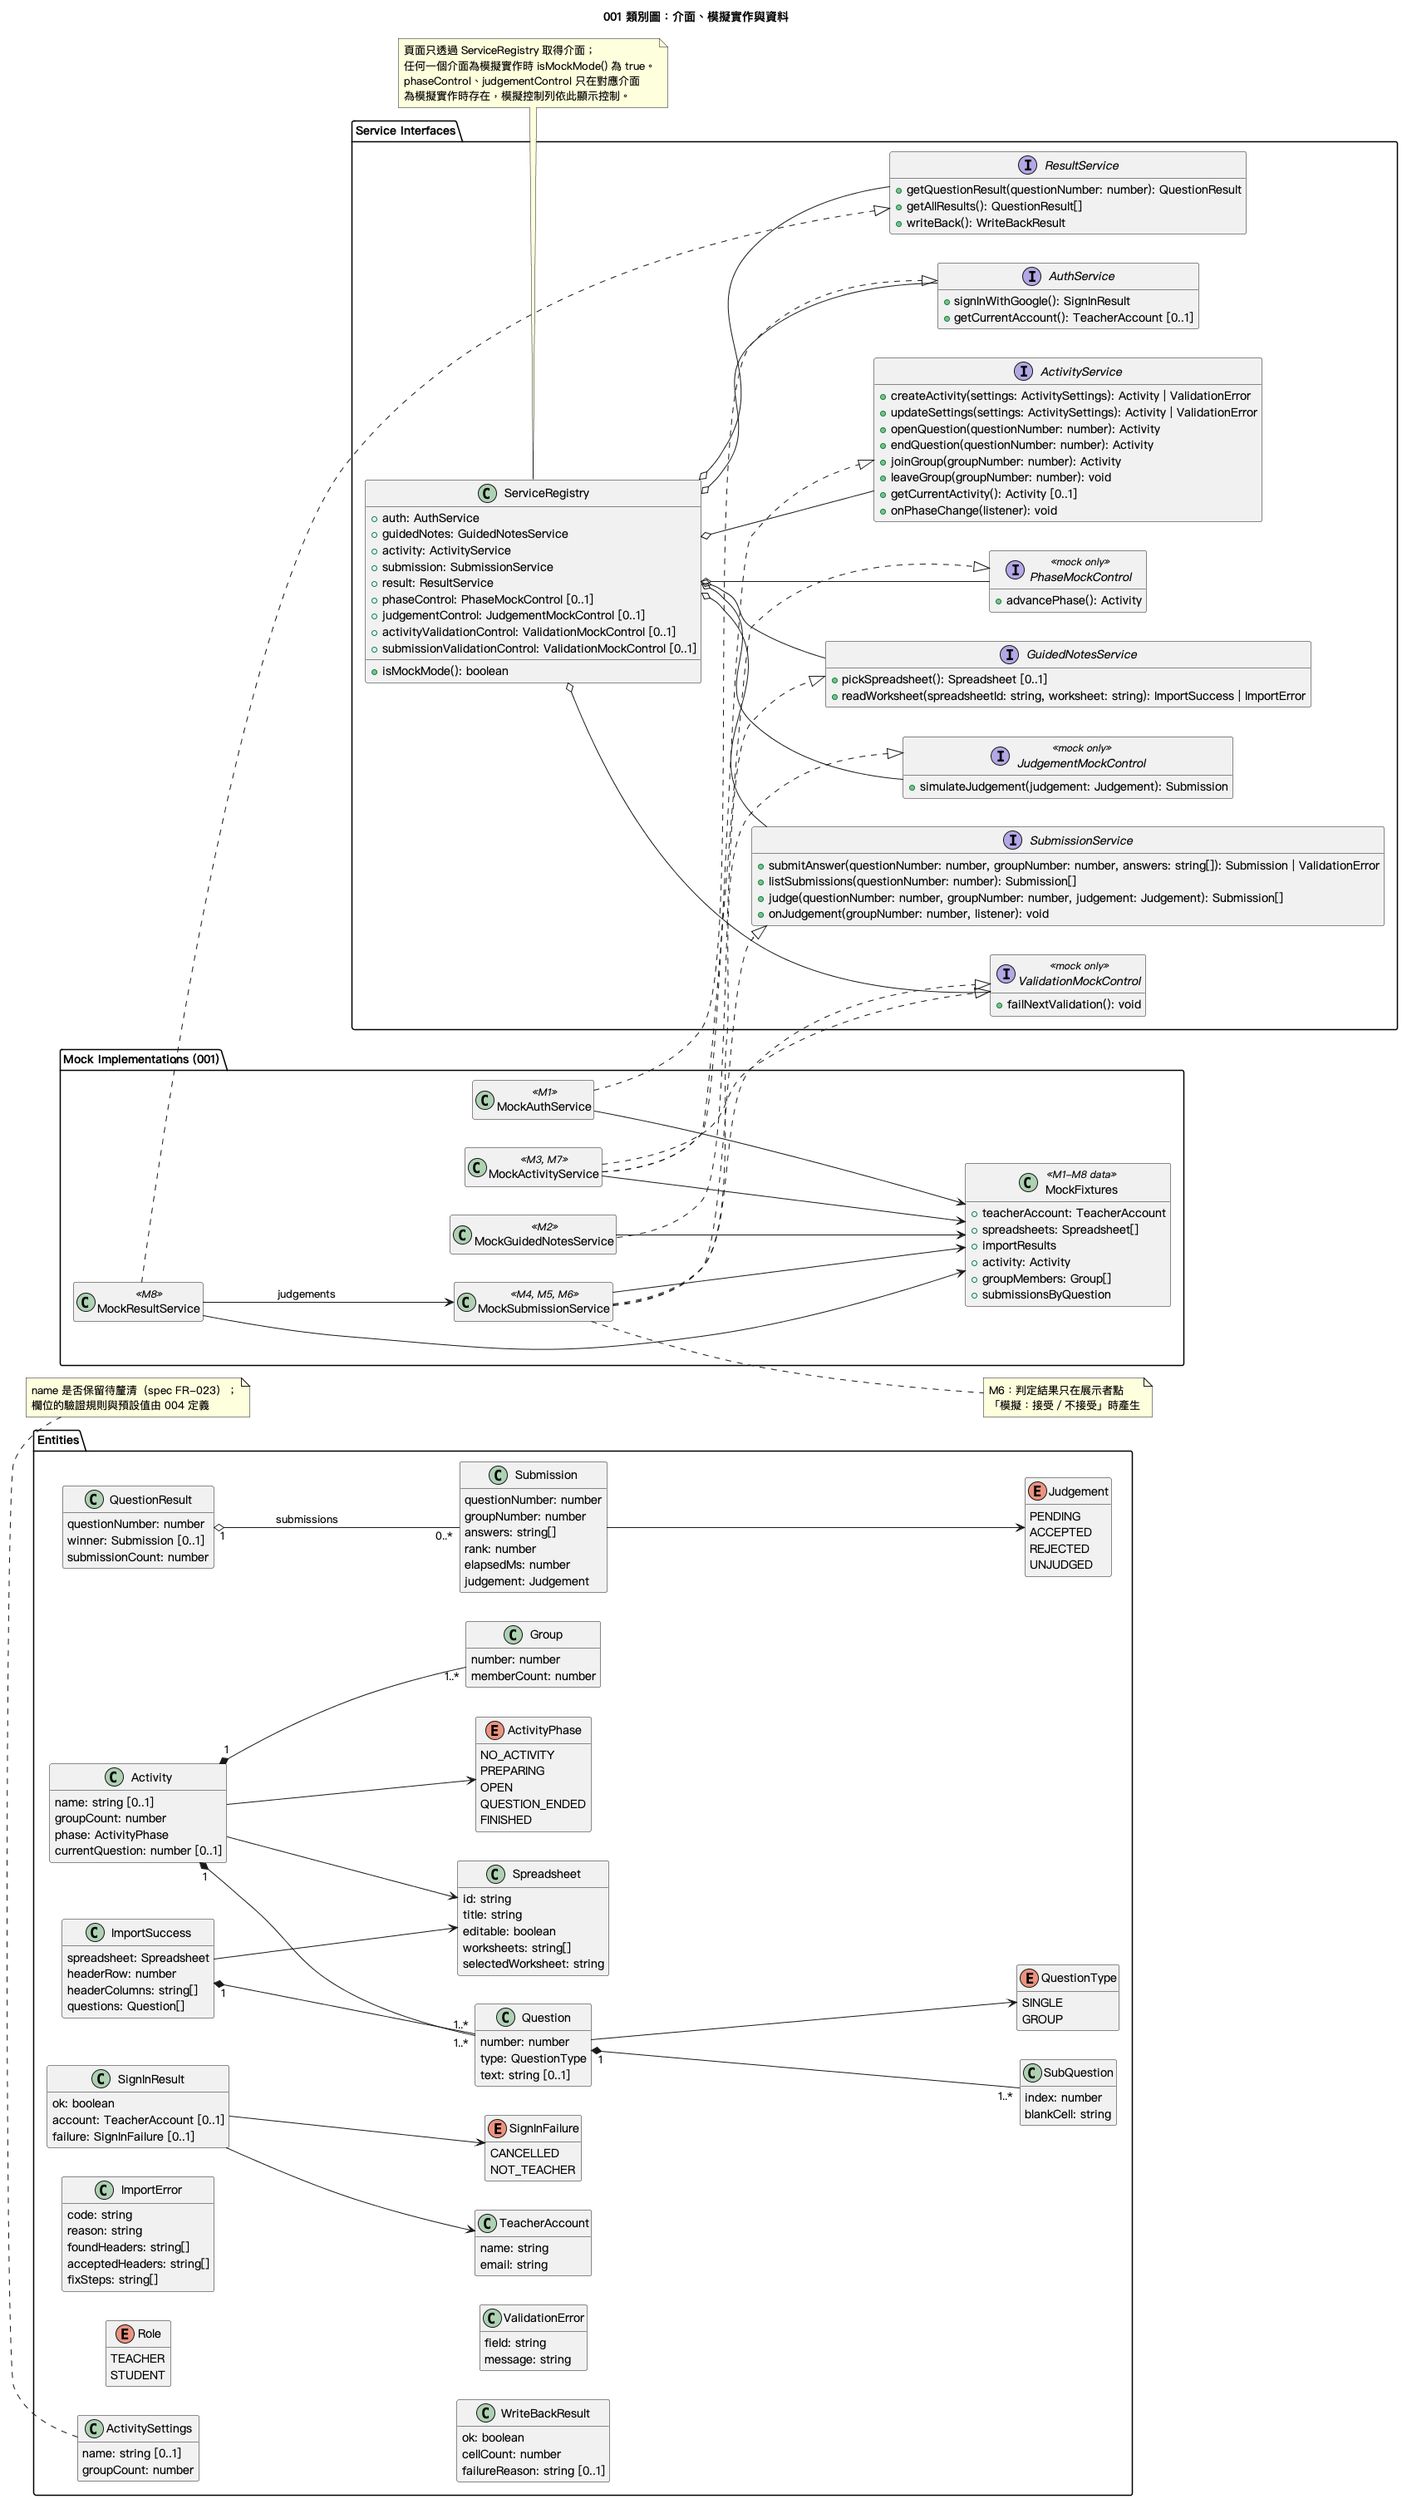
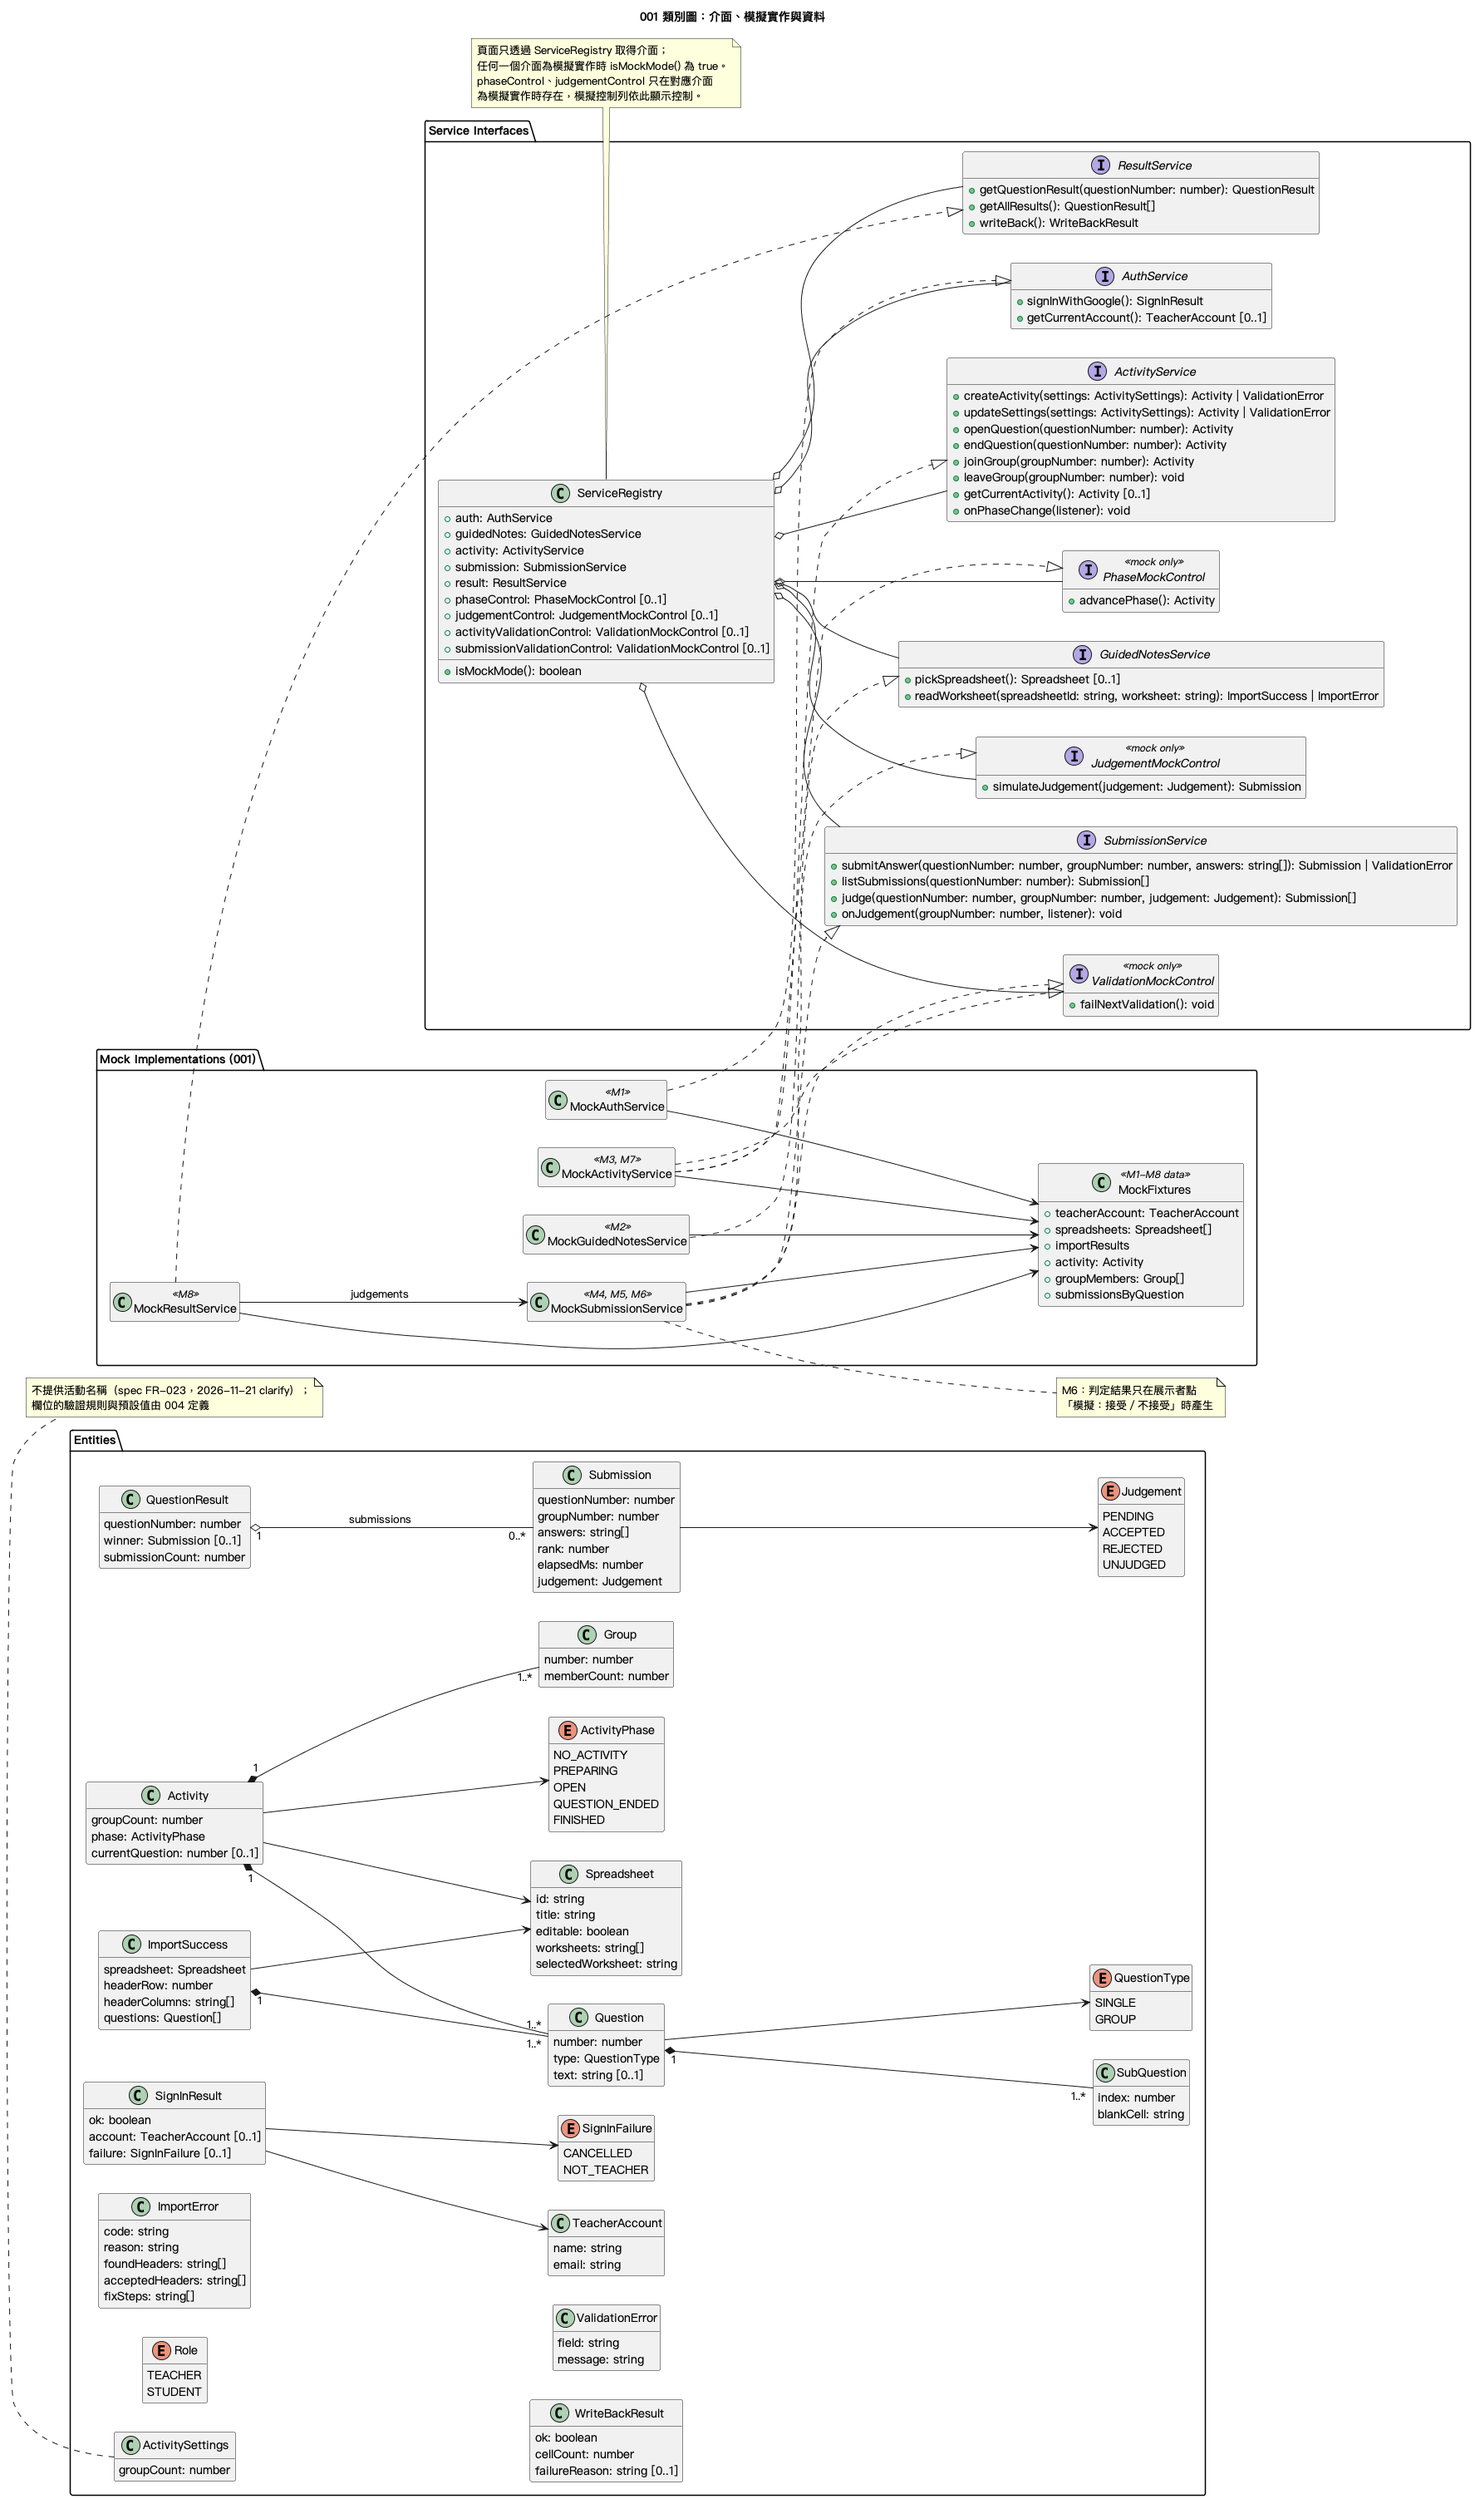
spec(001): clarify activity name and initial mock phase
- Drop activity name: not in docs/assignment.md (principle XI);
  D6, D7 discarded
- Start mock phase at "no activity": otherwise that state of Main
  and S-Join is unreachable and SC-002 fails

Refs: FR-010, FR-023, M3, M7

diff --git a/specs/001-ui-prototype/spec.md b/specs/001-ui-prototype/spec.md
@@ -42,6 +42,7 @@
 | 「連結 Google 帳號」、「解除連結」 | T-Connect、T-Import | 改為登入頁的「用 Google 登入」（002） |
 | 學生加入網址與「複製網址」 | T-Setup、T-Lobby | 學生改由首頁選擇「我是學生」進入 |
 | 分頁連線、離線狀態（「連線分頁 13 個」「第 6 組離線」） | T-Live、T-EndConfirm、T-Lobby | 不在任何子功能的範圍；只保留各組已加入人數 |
+| 活動名稱欄位與各頁顯示的活動名稱 | T-Setup、Main 及其他顯示活動名稱的頁面 | 不在 `docs/assignment.md` 的需求內（2026-11-21 clarify） |
 
 下列頁面或狀態是設計稿沒有、本子功能補上的：
 
@@ -69,8 +70,8 @@
 | D3 | 挑選學習單時關閉檔案選擇器，原本的辨識結果不變 | Edge Cases | 003 |
 | D4 | 組數範圍為 2 到 20 組；組數在 2 或 20 時「−」或「+」不可用 | FR-023；US2 AC-5；Edge Cases | 004 |
 | D5 | 組數預設為 6 組 | FR-023；US2 AC-4 | 004 |
-| D6 | 活動名稱預填學習單標題 | FR-023；US2 AC-4 | 004（先依 FR-023 決定是否保留活動名稱） |
-| D7 | 活動名稱必填；只有空白字元視為空白；空白時顯示「請輸入活動名稱」 | FR-023；US2 AC-6；Edge Cases | 004（先依 FR-023 決定是否保留活動名稱） |
+| D6 | 活動名稱預填學習單標題 | FR-023；US2 AC-4 | 已捨棄（2026-11-21 clarify：不保留活動名稱） |
+| D7 | 活動名稱必填；只有空白字元視為空白；空白時顯示「請輸入活動名稱」 | FR-023；US2 AC-6；Edge Cases | 已捨棄（2026-11-21 clarify：不保留活動名稱） |
 | D8 | 所有輸入在送出前都要驗證，驗證失敗時在欄位旁說明哪一項有誤及原因 | FR-008 | 各子功能依原則 VII 定義自己的驗證規則；001 只負責顯示（FR-008） |
 | D9 | 結束最後一題時，活動一併結束 | FR-033 | 004 |
 | D10 | 只能判定最早一筆待判定的答案；後面的答案在前面都判定前不可判定 | FR-032；US3 AC-3、AC-5；頁面與按鈕；Assumptions | 005 |
@@ -92,6 +93,8 @@
 - Q: 001 不實作階段同步時，展示者要怎麼讓學生頁面進入作答、本題結果與全部結果頁？ → A: 在「模擬模式」標示旁提供只在模擬模式出現的「模擬：推進到下一個階段」控制（FR-006、FR-061、M7）。
 - Q: 學生送出後，模擬實作依什麼規則決定「接受」或「不接受」？ → A: 等待判定頁在模擬模式下提供「模擬：接受」「模擬：不接受」兩個控制（M6、FR-061）。
 - Q: 被拒絕的組別能否修改後重送？ → A: 最終由 005 決定；001 先實作可重送（FR-056）。
+- Q: 活動設定頁是否保留「活動名稱」欄位？ → A: 不保留；T-Setup、首頁、學生頁面都不提供活動名稱，D6、D7 捨棄（FR-010、FR-023）。
+- Q: 模擬模式剛開啟時，首頁與選組頁看到的活動階段從哪裡開始？ → A: 從「沒有活動」開始；推進一次後出現固定模擬活動（4 題、6 組，準備中）；重新整理頁面後回到「沒有活動」（M3、M7）。
 
 ## User Scenarios & Testing *(mandatory)*
 
@@ -212,7 +215,7 @@
 - 登入失敗（取消或非老師帳號）：停留在登入頁並顯示登入介面回傳的訊息，不進入老師頁面。
 - 挑選學習單時關閉檔案選擇器：停留在原頁面，頁面內容不變。
 - 介面回傳驗證錯誤（任何頁面）：停留在原頁面，在出錯的欄位旁顯示介面回傳的訊息。
-- 在已結束階段點「模擬：推進到下一個階段」：模擬的階段不再改變。
+- 在已結束階段點「模擬：推進到下一個階段」：模擬的階段不再改變；要重新展示時重新整理頁面，階段回到「沒有活動」。
 - 一題結束時沒有任何組別送出：控制台・本題已結束與本題結果頁顯示「沒有組別送出」狀態。
 - 一題結束時有送出但沒有任何組別被接受：控制台・本題已結束與本題結果頁顯示「沒有組別搶答成功」狀態。
 - 學生在作答頁或等待判定頁時本題結束：切換到本題結果（階段推動，屬於 004）。
@@ -238,7 +241,7 @@
 
 #### 首頁與登入（R1）
 
-- **FR-010**: 首頁 MUST 提供「我是老師」與「我是學生」兩個選項，並顯示目前活動的階段、題數與組數（沒有活動時顯示「目前沒有活動」）；活動名稱是否顯示依 FR-023 的決定。
+- **FR-010**: 首頁 MUST 提供「我是老師」與「我是學生」兩個選項，並顯示目前活動的階段、題數與組數（沒有活動時顯示「目前沒有活動」）；不顯示活動名稱。
 - **FR-011**: 選「我是學生」 MUST 直接進入選組頁，不要求登入。
 - **FR-012**: 選「我是老師」 MUST 進入登入頁；登入頁 MUST 只提供「用 Google 登入」一個登入選項。
 - **FR-013**: 登入頁 MUST 有登入失敗訊息區，顯示登入介面回傳的失敗訊息。失敗的種類與訊息文字由 002 定義；001 的模擬實作回傳「已取消登入」與「此帳號不是老師帳號」兩種。
@@ -248,9 +251,8 @@
 - **FR-020**: 挑選學習單頁 MUST 顯示已登入的帳號，並提供「從 Google 雲端硬碟挑選」與「取消」。
 - **FR-021**: 確認辨識結果頁 MUST 顯示：學習單標題、是否可編輯、工作表切換、表頭所在的列與欄、學習單預覽（標示填空格）、題數、題組數、填空格數，以及以題號列出的每一題的類型（單題／題組・n 小題）與填空格位置。
 - **FR-022**: 找不到表頭頁 MUST 顯示學習單介面回傳的：錯誤原因、學習單中目前的表頭文字、系統認得的表頭寫法、修正方式。這些內容與匯入失敗時的處理方式由 003 定義。
-- **FR-023**: 活動設定頁 MUST 提供下列欄位與摘要：
+- **FR-023**: 活動設定頁 MUST 提供下列欄位與摘要，且 MUST NOT 提供活動名稱欄位（活動名稱不在 `docs/assignment.md` 的需求內）：
   - 組數欄位：以「−」「+」調整，並列出各組。
-  - 活動名稱欄位：[NEEDS CLARIFICATION: 是否需要活動名稱？活動名稱不在 `docs/assignment.md` 的需求內，設計稿 T-Setup 有此欄位。若不保留，一併移除首頁（FR-010）與學生頁面上顯示活動名稱的位置]
   - 這一輪的摘要：題數、題組題號、組數、成功規則的說明、學生加入方式的說明。
   欄位的驗證規則與預設值由 004 定義；說明文字依 `docs/feature-split.md` 3.2 與 004、005 的規則撰寫。001 的模擬實作接受任何輸入。
 - **FR-024**: 活動設定頁 MUST 有兩種模式：建立模式（按鈕「上一步」「建立活動」）與修改模式（按鈕「取消」「儲存設定」）。
@@ -290,11 +292,11 @@
 | --- | --- | --- |
 | M1 | 登入 | 點「用 Google 登入」後顯示模擬帳號選擇，選項為「模擬老師帳號」（成功）、「模擬非老師帳號」（失敗：此帳號不是老師帳號）、「取消」（失敗：已取消登入）。 |
 | M2 | 學習單 | 模擬檔案選擇器列出三份學習單：「題組＋單題範本」（辨識成功；可編輯，4 題，其中 2 題為題組，6 個填空格）、「單題範本」（辨識成功；僅檢視，6 題單題，6 個填空格）、「表頭錯誤範例」（找不到表頭）。對「表頭錯誤範例」按「重新讀取」時視為老師已修正表頭，回傳「題組＋單題範本」的辨識結果。關閉選擇器視為取消。 |
-| M3 | 活動 | 建立與修改設定成功；只有展示者點「模擬：驗證失敗」後的下一次建立或儲存，回傳組數欄位的驗證錯誤「模擬：驗證失敗」。控制台・準備中顯示固定的各組已加入人數，且至少一組為 0 人。首頁與選組頁看到的活動為一個固定的模擬活動（4 題、6 組）。 |
+| M3 | 活動 | 建立與修改設定成功；只有展示者點「模擬：驗證失敗」後的下一次建立或儲存，回傳組數欄位的驗證錯誤「模擬：驗證失敗」。控制台・準備中顯示固定的各組已加入人數，且至少一組為 0 人。首頁與選組頁看到的活動為一個固定的模擬活動（4 題、6 組），在 M7 推進到「準備中」之後才出現；在此之前顯示「沒有活動」。 |
 | M4 | 老師端的送出 | 每題開放時提供固定的模擬送出列表：除最後一題外，每題有 2 組以上的送出；最後一題沒有任何送出。每一筆待判定的答案都可判定；老師的判定結果記錄在模擬實作中，並反映在本題結果、題目進度與結果頁。 |
 | M5 | 學生端的送出 | 「整組送出」一律可用，送出成功；只有展示者點「模擬：驗證失敗」後的下一次送出，回傳第一個答案欄的驗證錯誤「模擬：驗證失敗」；被拒絕後允許重送，答案欄保留上次送出的內容。 |
 | M6 | 學生端的判定 | 送出後維持「等待判定」，直到展示者在模擬控制列點「模擬：接受」或「模擬：不接受」（FR-061）。 |
-| M7 | 學生端的活動階段 | 學生頁面的活動階段只在展示者點模擬控制列的「模擬：推進到下一個階段」時改變，依序為：準備中 → 搶答中（第 1 題）→ 本題已結束（第 1 題）→ 搶答中（第 2 題）→ … → 本題已結束（最後一題）→ 已結束。選組頁的「沒有活動」狀態以「模擬：推進到下一個階段」進入「準備中」。 |
+| M7 | 學生端的活動階段 | 首頁與學生頁面看到的活動階段只在展示者點模擬控制列的「模擬：推進到下一個階段」時改變。開啟或重新整理頁面時一律從「沒有活動」開始，依序為：沒有活動 → 準備中 → 搶答中（第 1 題）→ 本題已結束（第 1 題）→ 搶答中（第 2 題）→ … → 本題已結束（最後一題）→ 已結束。「已結束」之後再推進，階段不再改變。 |
 | M8 | 寫回 | 學習單為「題組＋單題範本」時寫回成功；為「單題範本」（僅檢視）時失敗，原因為沒有編輯權限。 |
 
 - **FR-061**: 模擬模式下，「模擬模式」標示旁 MUST 顯示模擬控制列，只提供目前頁面可用的控制：
@@ -406,7 +408,7 @@
 - **題目**：題號、類型（單題或題組）、題目敘述（可沒有）、所屬小題。題組算一題。
 - **小題**：所屬題目、小題編號、填空格位置。單題視為只有一個小題。
 - **辨識錯誤**：錯誤代碼、原因、目前的表頭文字、系統認得的表頭寫法、修正方式。
-- **活動**：組數、使用的學習單與題目、目前階段、目前題號；名稱依 FR-023 的決定。
+- **活動**：組數、使用的學習單與題目、目前階段、目前題號。活動沒有名稱。
 - **活動階段**：沒有活動、準備中、搶答中（第 n 題）、本題已結束（第 n 題）、已結束。
 - **組別**：組別編號、已加入人數。
 - **送出**：題號、組別、各小題答案、送出順位、開放後經過的時間、判定狀態（種類由 005 定義）。

diff --git a/specs/001-ui-prototype/checklists/requirements.md b/specs/001-ui-prototype/checklists/requirements.md
@@ -13,7 +13,7 @@
 
 ## Requirement Completeness
 
-- [ ] No [NEEDS CLARIFICATION] markers remain
+- [x] No [NEEDS CLARIFICATION] markers remain
 - [x] Requirements are testable and unambiguous
 - [x] Success criteria are measurable
 - [x] Success criteria are technology-agnostic (no implementation details)
